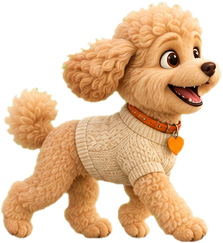
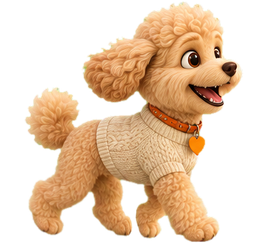
뽀식이 걷는 모습 자연스럽게: 다리가 번갈아 앞뒤로 움직이는 8장 + 걸은 거리에 맞춰 넘기기
- 거의 똑같던 AI 걷기 그림 4장 대신, 한 장에서 무릎 아래만 부드럽게 휘어 앞다리·뒷다리가 반대로 움직이고
  앞으로 내밀 때 살짝 드는 8장으로 (몸·얼굴은 고정이라 덜컹거림 없음)
- 그림은 시간 대신 걸은 거리에 맞춰 넘김 → 발이 미끄러지지 않음, 걸음마다 몸이 살짝 들썩
- 걷는 속도 90 → 75

Claude-Session: https://claude.ai/code/session_01N4vdG3iiDySJSNhVXcJis4

diff --git a/desktop-pet/src/pet.js b/desktop-pet/src/pet.js
@@ -10,7 +10,8 @@ const spriteEl = document.getElementById("sprite")
 // Frames of the real 뽀식이, made from the user's photo (assets/ppo/*.png). All share one scale.
 const SPRITES = {
   front: ["front"],
-  walk: ["walk0", "walk1", "walk2", "walk3"],
+  // 8 frames of one natural step cycle: legs swing front/back from one picture (desktop-pet/README.md)
+  walk: ["walk0", "walk1", "walk2", "walk3", "walk4", "walk5", "walk6", "walk7"],
   run: ["run0", "run1", "run2", "run3"],
   sit: ["sit"],
   sleep: ["sleep"],
@@ -29,6 +30,7 @@ const TRICKS = ["bang", "shy", "highfive", "beg", "belly", "yawn"]
 const POSE = { walk: "walk", run: "run", fetch: "run", spin: "run", chase: "run", nap: "sleep", sit: "sit", sleep: "sleep", jump: "jump", bow: "bow", paw: "paw", eat: "eat" }
 for (const t of TRICKS) POSE[t] = t
 const FRAME_MS = { walk: 130, run: 85 }
+const WALK_STEP = 0.075 // fraction of the dog's width walked per frame (8 frames = one stride cycle)
 const BASE_W = 222 // natural width of a walking frame = the dog's box width
 const BASE_H = 244
 const spriteSize = {}
@@ -41,7 +43,9 @@ for (const name of new Set(Object.values(SPRITES).flat())) {
 function drawSprite(now) {
   const pose = POSE[S.action] || "front"
   const frames = SPRITES[pose]
-  const name = frames.length > 1 ? frames[Math.floor(now / FRAME_MS[pose]) % frames.length] : frames[0]
+  // Walking frames follow the distance walked, so the paws stay planted instead of sliding.
+  const index = pose === "walk" ? Math.floor(S.walkDist / (S.w * WALK_STEP)) : Math.floor(now / FRAME_MS[pose])
+  const name = frames[index % frames.length]
   if (spriteEl.dataset.n !== name) {
     spriteEl.dataset.n = name
     spriteEl.src = `assets/ppo/${name}.png`
@@ -57,7 +61,9 @@ function drawSprite(now) {
   else if (S.x + S.w + extra > S.W) shift = S.W - (S.x + S.w + extra)
   // The side-view frames face right; the front photo has the name tag text, so it never mirrors.
   const flip = pose === "front" ? 1 : S.facing
-  spriteEl.style.transform = `translateX(calc(-50% + ${shift}px)) scaleX(${flip})`
+  // Each step lifts the body a touch (two steps per cycle).
+  const bob = pose === "walk" ? -Math.abs(Math.sin((S.walkDist / (S.w * WALK_STEP * frames.length)) * Math.PI * 2)) * S.w * 0.015 : 0
+  spriteEl.style.transform = `translate(calc(-50% + ${shift}px), ${bob}px) scaleX(${flip})`
 }
 
 const SIZES = { small: 110, medium: 150, large: 200 }
@@ -179,6 +185,7 @@ const S = {
   lastStretch: performance.now(),
   greeted: false,
   entered: false,
+  walkDist: 0,
   sprite: true,
   ownerName: "",
   lastFed: Date.now(),
@@ -268,7 +275,7 @@ function doAction(a, opts = {}) {
   if (a !== "sleep") cancelBed()
   if (!opts.keepScript) S.script = null
   if (a !== "nap") S.napping = false
-  S.speed = opts.speed || (a === "walk" ? 90 : 330)
+  S.speed = opts.speed || (a === "walk" ? 75 : 330)
   S.free = Boolean(opts.free)
   if (opts.face) S.facing = opts.face
   S.action = a
@@ -835,6 +842,7 @@ function loop(now) {
         arrive()
       } else if (Math.abs(dx) > step) {
         S.x += Math.sign(dx) * step
+        if (a === "walk") S.walkDist += step
         S.facing = dx < 0 ? -1 : 1
       }
     } else if (now > S.until) {

diff --git a/desktop-pet/src/pet.css b/desktop-pet/src/pet.css
@@ -123,7 +123,7 @@ html, body {
 @keyframes sprite-breathe { 0%,100% { transform: scale(1, 1) } 50% { transform: scale(1.012, 1.03) } }
 @keyframes sprite-nod { 0%,100% { transform: translateY(0) } 50% { transform: translateY(3px) } }
 @keyframes sprite-paw { 0%,100% { transform: rotate(-2deg) } 50% { transform: rotate(3deg) } }
-#pet.sprite .dog-walk { animation: sprite-bob .26s ease-in-out infinite }
+#pet.sprite .dog-walk { animation: none } /* the step bob follows the paws (pet.js drawSprite) */
 #pet.sprite .dog-run, #pet.sprite .dog-fetch { animation: sprite-bob .17s ease-in-out infinite }
 #pet.sprite .dog-sit { animation: sprite-breathe 2.4s ease-in-out infinite }
 #pet.sprite .dog-sleep, #pet.sprite .dog-nap { animation: sprite-breathe 3s ease-in-out infinite }

diff --git a/desktop-pet/README.md b/desktop-pet/README.md
@@ -24,3 +24,6 @@ npm run smoke      # 스크린샷 테스트 (out/)
 npm run dist:win   # 윈도우 설치 파일 (dist/)
 ```
 GitHub Actions(`.github/workflows/desktop-pet.yml`)가 `desktop-pet/` 이 바뀔 때마다 윈도우 설치 파일을 만들어 `ppo-pet` 릴리스에 올려요.
+
+## 걷기 그림
+`src/assets/ppo/walk0~7.png` 는 걷기 그림 한 장에서 무릎 아래만 앞뒤로 부드럽게 휘게 만든 8장(앞다리와 뒷다리가 반대로, 앞으로 내밀 때 살짝 들기)이에요. `pet.js` 는 시간 대신 걸은 거리에 맞춰 그림을 넘겨서 발이 미끄러지지 않아요.
